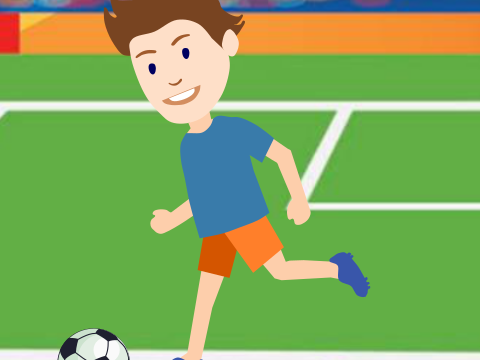
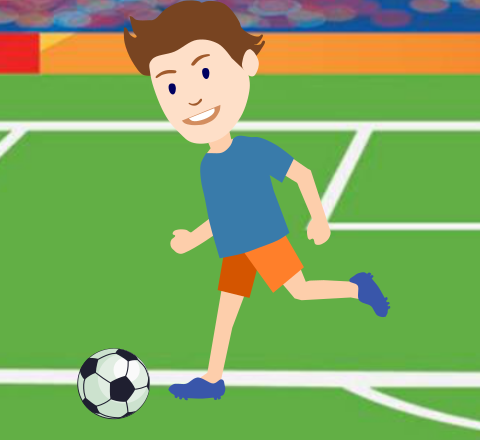
test

diff --git a/fun/expe4/index.html b/fun/expe4/index.html
@@ -120,10 +120,10 @@
             #imgcontainer a{
                 display:block; 
                 width: 100%; 
-                height: 60%; 
+                height: auto; 
                 /*need further test and fix*/
                 min-width:480px;
-                min-height:500px; 
+                min-height:440px; 
                 float:left;
             }
 
